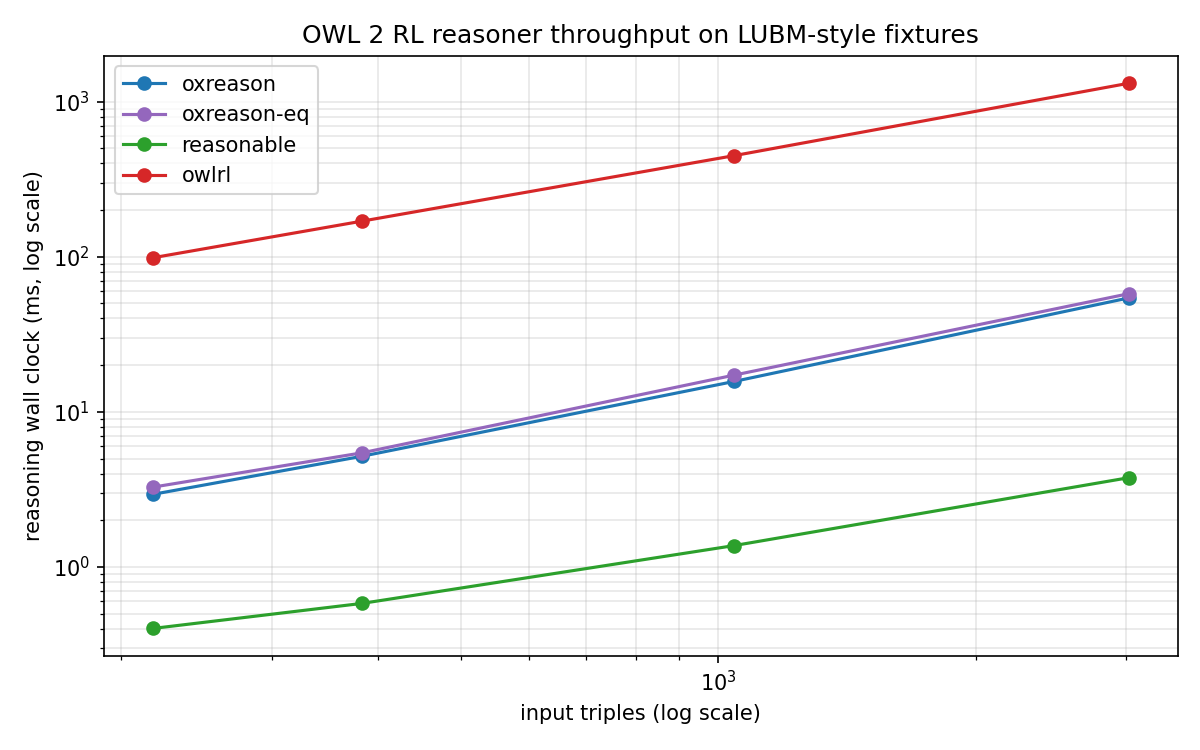
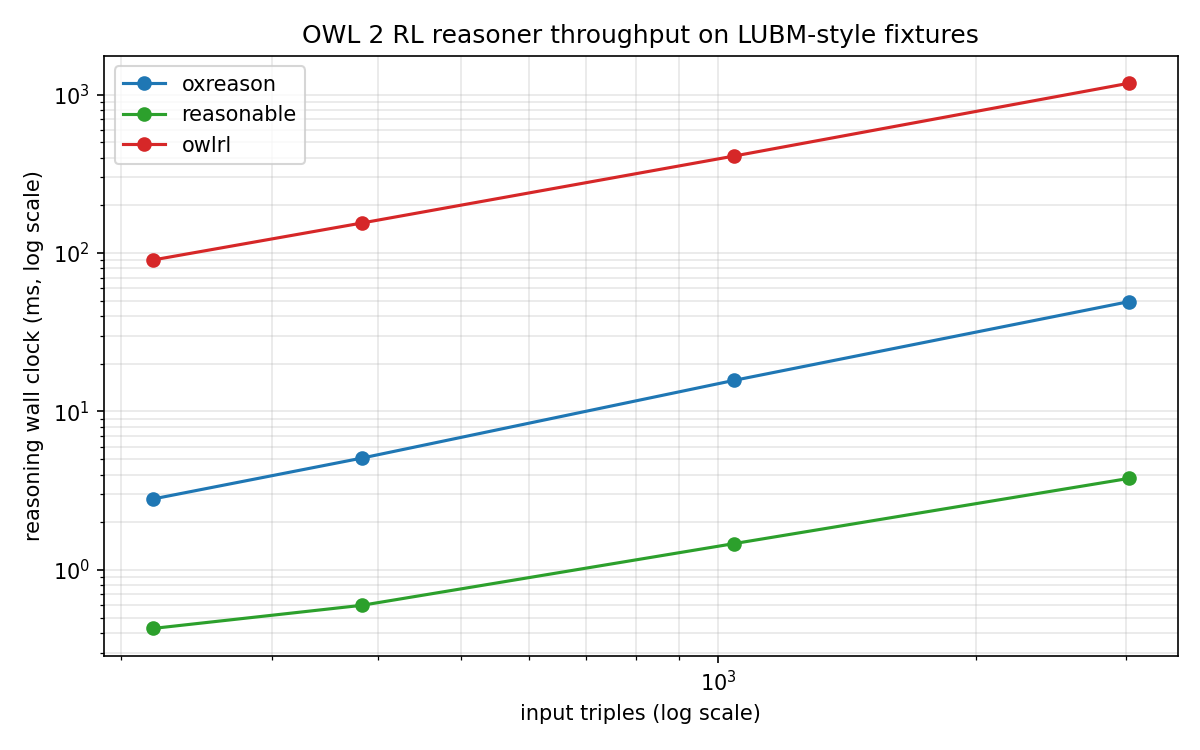
oxigraph/oxigraph#130 added engine pipeline flow, simplified benchmark

diff --git a/bench/reasoner/native/src/main.rs b/bench/reasoner/native/src/main.rs
@@ -2,8 +2,7 @@
 //!
 //! Usage: `reasoner_bench <reasoner> <path-to-turtle>`
 //!
-//! `<reasoner>` is one of `oxreason`, `oxreason-eq` (equality rules on),
-//! or `reasonable`.
+//! `<reasoner>` is one of `oxreason` or `reasonable`.
 //!
 //! Prints a single line of JSON to stdout:
 //!
@@ -38,18 +37,17 @@ use oxttl::TurtleParser;
 fn main() -> ExitCode {
     let args: Vec<String> = env::args().collect();
     if args.len() < 3 {
-        eprintln!("usage: reasoner_bench <oxreason|oxreason-eq|reasonable> <path-to-turtle>");
+        eprintln!("usage: reasoner_bench <oxreason|reasonable> <path-to-turtle>");
         return ExitCode::from(2);
     }
     let reasoner = args[1].as_str();
     let path = &args[2];
 
     let result = match reasoner {
-        "oxreason" => run_oxreason(path, false),
-        "oxreason-eq" => run_oxreason(path, true),
+        "oxreason" => run_oxreason(path),
         "reasonable" => run_reasonable(path),
         other => {
-            eprintln!("unknown reasoner '{other}'; expected oxreason, oxreason-eq, or reasonable");
+            eprintln!("unknown reasoner '{other}'; expected oxreason or reasonable");
             return ExitCode::from(2);
         }
     };
@@ -85,7 +83,7 @@ struct Run {
     firings: u64,
 }
 
-fn run_oxreason(path: &str, equality_rules: bool) -> Result<Run, Box<dyn std::error::Error>> {
+fn run_oxreason(path: &str) -> Result<Run, Box<dyn std::error::Error>> {
     let file = File::open(Path::new(path))?;
     let reader = BufReader::new(file);
 
@@ -98,7 +96,7 @@ fn run_oxreason(path: &str, equality_rules: bool) -> Result<Run, Box<dyn std::er
     let parse_ms = ms(parse_start.elapsed());
     let triples_in = graph.len();
 
-    let config = ReasonerConfig::owl2_rl().with_equality_rules(equality_rules);
+    let config = ReasonerConfig::owl2_rl();
     let r = Reasoner::new(config);
 
     let reason_start = Instant::now();
@@ -106,7 +104,7 @@ fn run_oxreason(path: &str, equality_rules: bool) -> Result<Run, Box<dyn std::er
     let reason_ms = ms(reason_start.elapsed());
 
     Ok(Run {
-        reasoner: if equality_rules { "oxreason-eq" } else { "oxreason" },
+        reasoner: "oxreason",
         parse_ms,
         reason_ms,
         triples_in,

diff --git a/bench/reasoner/bench.py b/bench/reasoner/bench.py
@@ -5,7 +5,6 @@ Reasoners under test:
 
 * ``oxreason`` (native Rust): timed inside a Rust bench binary so Python
   overhead stays out of parse and reasoning durations.
-* ``oxreason-eq`` (native Rust): same binary, equality rules enabled.
 * ``reasonable`` (native Rust, via its own binding): also timed inside the
   same Rust bench binary against the ``reasonable`` crate directly.
 * ``owlrl`` (rdflib + owlrl): the pure Python reference implementation from
@@ -87,7 +86,7 @@ def ensure_fixture(target_triples: int, data_dir: Path) -> Path:
 def make_native_runner(binary: Path, reasoner_key: str) -> Callable[[Path], tuple[float, float, int]]:
     """Return a runner that subprocesses the Rust bench binary.
 
-    ``reasoner_key`` is one of ``oxreason``, ``oxreason-eq``, ``reasonable``.
+    ``reasoner_key`` is one of ``oxreason`` or ``reasonable``.
     The returned callable parses the single JSON line the binary prints
     and returns ``(parse_ms, reason_ms, triples_out)`` to match the other
     adapters.
@@ -251,7 +250,6 @@ def plot(summary: dict, path: Path) -> None:
     fig, ax = plt.subplots(figsize=(8, 5))
     colors = {
         "oxreason": "#1f77b4",
-        "oxreason-eq": "#9467bd",
         "owlrl": "#d62728",
         "reasonable": "#2ca02c",
     }
@@ -312,18 +310,18 @@ def main() -> None:
         default=None,
         help=(
             "restrict to a subset of reasoners from "
-            "{oxreason, oxreason-eq, reasonable, owlrl}"
+            "{oxreason, reasonable, owlrl}"
         ),
     )
     args = parser.parse_args()
 
-    all_reasoners = ["oxreason", "oxreason-eq", "reasonable", "owlrl"]
+    all_reasoners = ["oxreason", "reasonable", "owlrl"]
     selected = args.only if args.only is not None else all_reasoners
     for name in selected:
         if name not in all_reasoners:
             parser.error(f"unknown reasoner '{name}'; expected one of {all_reasoners}")
 
-    native_reasoners = {"oxreason", "oxreason-eq", "reasonable"}
+    native_reasoners = {"oxreason", "reasonable"}
     if any(name in native_reasoners for name in selected):
         if not args.native_bin.exists():
             parser.error(

diff --git a/lib/oxreason/README.md b/lib/oxreason/README.md
@@ -54,15 +54,57 @@ cax-dw, cls-nothing2, prp-irp, prp-asyp, prp-pdw.
 Not yet implemented:
 
 Equality: eq-ref, eq-diff1, eq-diff2, eq-diff3.
+
 Property axioms: prp-ap, prp-spo2 (subPropertyChain), prp-key, prp-npa1,
 prp-npa2, prp-adp.
+
 Class expressions: cls-thing, cls-nothing1, cls-com, cls-svf1, cls-svf2,
 cls-avf, cls-maxc1, cls-maxc2, cls-maxqc1, cls-maxqc2, cls-maxqc3,
 cls-maxqc4, cls-oo.
+
 Class axioms: cax-adc (allDisjointClasses).
+
 Schema axioms: scm-dom2, scm-rng2, scm-hv, scm-svf1, scm-svf2, scm-avf1,
 scm-avf2, scm-int, scm-uni.
+
 Datatypes: dt-type1, dt-type2, dt-eq, dt-diff, dt-not-type.
+
+Engine pipeline
+---------------
+
+Forward chaining runs a semi-naive fixpoint. Round 1 scans the full graph;
+every subsequent round joins each rule against the `DeltaIndex` built from
+triples added in the previous round. Inconsistency detectors run first so
+the engine fails fast on bad input.
+
+```mermaid
+flowchart TD
+    A[Graph in] --> B{round N}
+    B --> C[find_inconsistency<br/>cax-dw, cls-nothing2, prp-irp,<br/>prp-asyp, prp-pdw]
+    C -->|clash| X[Err Inconsistency]
+    C -->|clean| D[RDFS rules<br/>cax-sco, prp-dom, prp-rng, prp-spo1]
+    D --> E[OWL core<br/>prp-trp, prp-symp, prp-inv,<br/>prp-eqp, cax-eqc]
+    E --> F[Schema rules<br/>scm-cls, scm-sco, scm-spo,<br/>scm-op, scm-dp, scm-eqc,<br/>scm-eqp, scm-dom1, scm-rng1]
+    F --> G[Class expressions<br/>cls-hv1, cls-hv2, cls-int1,<br/>cls-int2, cls-uni]
+    G --> H{equality flag?}
+    H -->|on| I[prp-fp, prp-ifp,<br/>eq-sym, eq-trans,<br/>eq-rep-s, eq-rep-p, eq-rep-o]
+    H -->|off| J[pending buffer]
+    I --> J
+    J --> K[graph.insert dedup]
+    K --> L{any new triples?}
+    L -->|yes| M[rebuild DeltaIndex<br/>keyed by predicate]
+    M --> B
+    L -->|no| Z[Ok ReasoningReport]
+```
+
+Benchmarks
+----------
+
+A LUBM-style synthetic benchmark comparing `oxreason`, `reasonable`, and
+`owlrl` sits in `bench/reasoner`. See its README for how to run it and
+where results land.
+
+![Reasoner comparison on LUBM-style data](../../bench/reasoner/out/reasoner_comparison.png)
 
 SHACL coverage
 --------------

diff --git a/bench/reasoner/README.md b/bench/reasoner/README.md
@@ -4,7 +4,6 @@ This directory contains a benchmark pipeline that compares OWL 2 RL reasoners
 on LUBM-style synthetic graphs:
 
 * `oxreason` from this repository, timed inside a Rust bench binary.
-* `oxreason-eq`: the same crate with the OWL 2 RL equality rules enabled.
 * [reasonable](https://github.com/gtfierro/reasonable) (Rust), also timed
   inside the same Rust bench binary via its crates.io release.
 * [OWL-RL](https://github.com/RDFLib/OWL-RL) (`owlrl` + rdflib, pure Python),
@@ -57,7 +56,7 @@ Outputs land in the `--output-dir`:
 Useful flags:
 
 * `--only` restricts the run to a subset of
-  `{oxreason, oxreason-eq, reasonable, owlrl}`.
+  `{oxreason, reasonable, owlrl}`.
 * `--native-bin` points at a different build of the Rust bench binary.
 
 ```
@@ -84,6 +83,6 @@ stdout:
 {"reasoner":"oxreason","parse_ms":12.3,"reason_ms":45.6,"triples_in":1234,"triples_out":3456,"rounds":3,"firings":12345}
 ```
 
-`reasoner` is one of `oxreason`, `oxreason-eq`, or `reasonable`.
+`reasoner` is one of `oxreason` or `reasonable`.
 `rounds` and `firings` are `0` for `reasonable` because that crate does
 not expose those counters.
